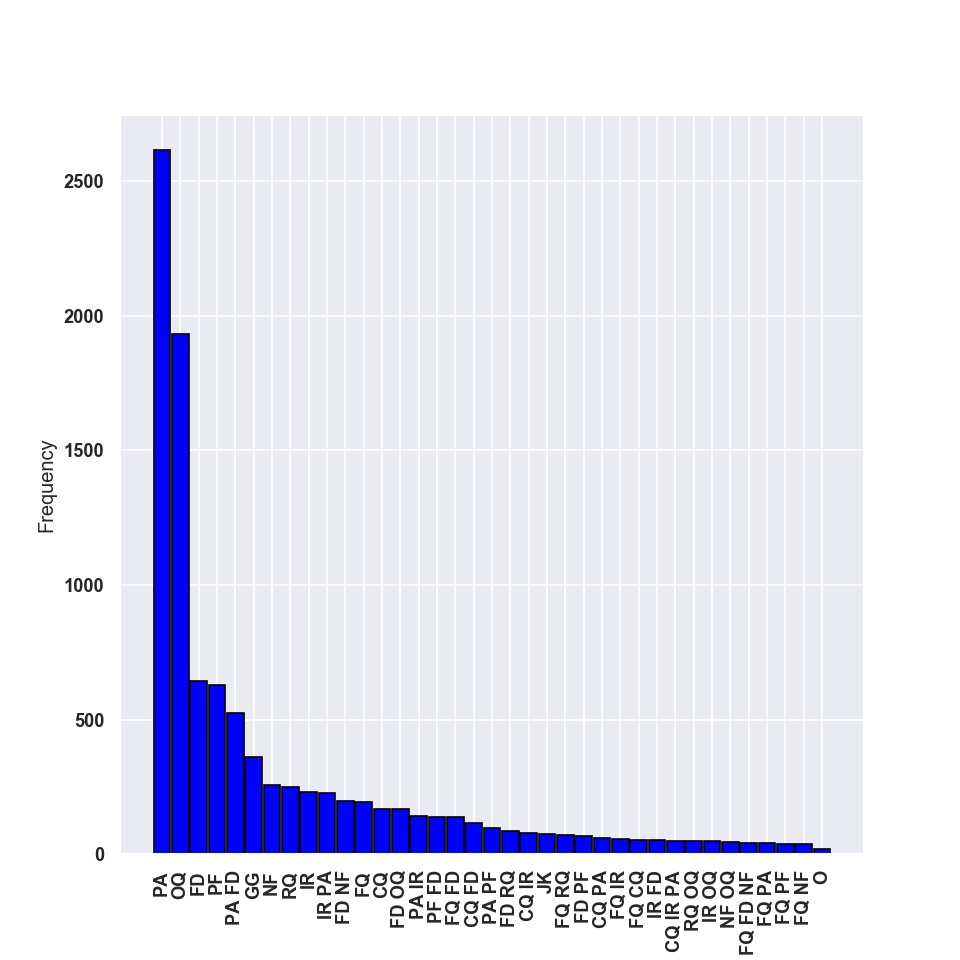
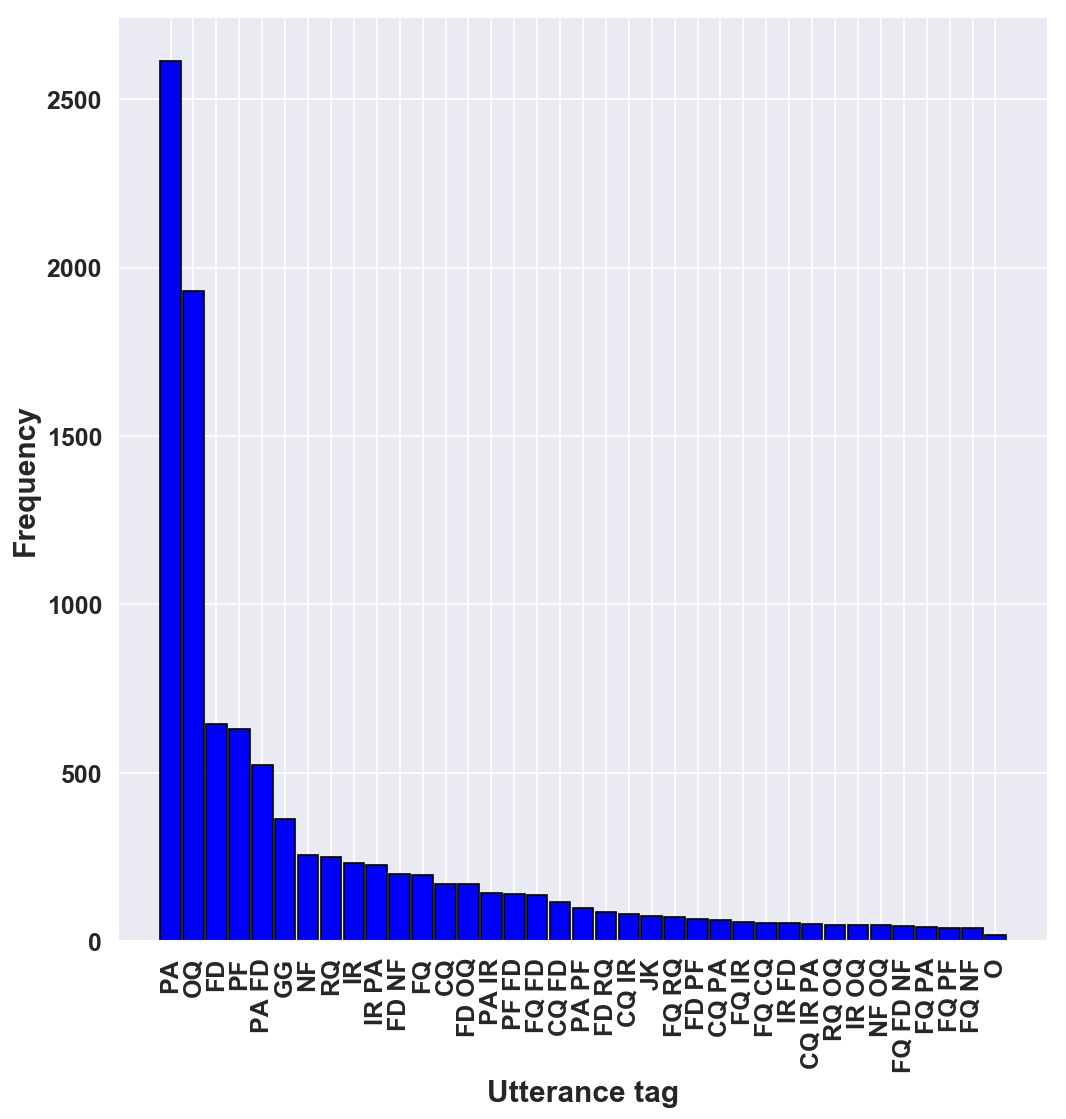
Update plots and add feats imp plot

diff --git a/plots.py b/plots.py
@@ -2,32 +2,51 @@ import matplotlib.pyplot as plt
 import seaborn as sns
 import numpy as np
 import pandas as pd
+from matplotlib import gridspec
 
-import matplotlib
-matplotlib.rcParams['font.weight']= 'bold'
+plt.rc('font', weight='bold')        
+plt.rc('axes', labelweight='bold')
+plt.rcParams.update({'font.size': 16})
 
 def make_tag_occurences_plot(occurences, plt_title, x_label, y_label, filename, logger, 
-  plot_tags = False, vertical_line = None, color = 'blue', edgecolor = False, log = False):
+  plot_tags = False, vertical_line = None, color = 'blue', edgecolor = None, log = False):
 
-  fig = plt.figure(figsize=(8, 8))
+  if plot_tags:
+    fig = plt.figure(figsize=(10, 10))
+  else:
+    fig = plt.figure(figsize=(12, 12))
+
   sns.set()
-  plt.bar(range(len(occurences)), [item[1] for item in occurences], width = 0.9, 
-    color = color, edgecolor = edgecolor, log = log)
 
-  plt.xlabel(x_label)
-  plt.ylabel(y_label)
+  if plot_tags:
+    plt.bar(range(len(occurences)), [item[1] for item in occurences], width = 0.9, 
+      color = color, edgecolor = edgecolor, log = log)
+  else:
+    gs = gridspec.GridSpec(1, 2, width_ratios=[1, 4]) 
+    ax0 = plt.subplot(gs[0])
+    ax0.bar(range(len(occurences)), [item[1] for item in occurences], width = 0.9, 
+      color = 'white', edgecolor = 'blue', log = False)
+    ax0.axvline(x = vertical_line, color = 'black')
+    ax1 = plt.subplot(gs[1])
+    ax1.bar(range(len(occurences)), [item[1] for item in occurences], width = 1.0, 
+      color = color, edgecolor = 'white', log = True)
+
+  plt.xlabel(x_label, fontsize = 18)
+  plt.ylabel(y_label, fontsize = 18)
   plt.title(plt_title)
+  plt.xticks(fontsize = 15)
+  plt.yticks(fontsize = 15)
 
   if plot_tags:
     x = np.array(range(len(occurences)))
     my_xticks = [item[0] for item in occurences]
-    plt.xticks(x, my_xticks, rotation = 90)
+    plt.xticks(x, my_xticks, rotation = 90, fontsize = 15)
 
   if vertical_line is not None:
     plt.axvline(x = vertical_line, color = 'black')
     plt.text(vertical_line + 2, 1500,'X=37', rotation=0)
 
-  plt.savefig(logger.get_output_file(filename), dpi = 120)
+  plt.savefig(logger.get_output_file(filename), dpi = 120, bbox_inches='tight')
   plt.close()
 
 
@@ -44,7 +63,6 @@ def make_accuracy_f1_plot(results_filename, plot_filename, logger):
 
   colors = ['blue', 'blue', 'blue', 'red', 'green', 'orange', 'dimgray', 'maroon', 'navy']
   markers = ['*', 'p', 'D', 'X', 'X', 'X', 'X', 'X', 'X']
-  print(colors)
   for i, model in enumerate(models):
     x = acc[i]
     y = f1[i]
@@ -56,3 +74,60 @@ def make_accuracy_f1_plot(results_filename, plot_filename, logger):
 
   plt.savefig(logger.get_output_file(plot_filename), dpi = 120,  bbox_inches='tight')
   plt.close()
+
+
+def make_feats_importance_barplot(feats_imp_filename, plot_filename, 
+  num_feats_to_plot, logger):
+
+  fig = plt.figure(figsize=(8, 10))
+  sns.set()
+
+  df = pd.read_csv(logger.get_output_file(feats_imp_filename))
+
+  model1_feats_imp_scores = df.iloc[0, 1:]
+  model2_feats_imp_scores = df.iloc[1, 1:]
+
+  model1_name_score_pairs = list(zip(df.columns[1:], model1_feats_imp_scores))
+  model2_name_score_pairs = list(zip(df.columns[1:], model2_feats_imp_scores))
+
+  model1_name_score_pairs = sorted(model1_name_score_pairs, key=lambda tup: tup[1], reverse = True)
+  model2_name_score_pairs = sorted(model2_name_score_pairs, key=lambda tup: tup[1], reverse = True)
+
+  model2_names, model2_scores = zip(*model2_name_score_pairs)
+ 
+  model1_scores = [dict(model1_name_score_pairs)[name] for name in model2_names]
+
+  model2_names = model2_names[:num_feats_to_plot]
+
+  model1_scores = model1_scores[:num_feats_to_plot]
+  model2_scores = model2_scores[:num_feats_to_plot]
+
+  x_range = np.array(range(len(model2_names)))
+
+  plt.yticks(fontsize = 15)
+  plt.ylabel("Relative importance score", fontsize = 18)
+  plt.bar(x_range, model2_scores, width = 0.4, color = 'red')
+  plt.xticks(x_range, model2_names, rotation = 90, fontsize = 16)
+
+  plt.bar(x_range + 0.4, model1_scores, width = 0.4, color = 'blue')
+  
+  plt.legend(["Randon Forest", "Ada Boost"], fontsize = 16)
+  plt.savefig(logger.get_output_file(plot_filename), dpi = 120, bbox_inches='tight')
+  plt.close()
+
+
+
+
+
+
+
+
+
+
+
+
+
+
+
+
+
